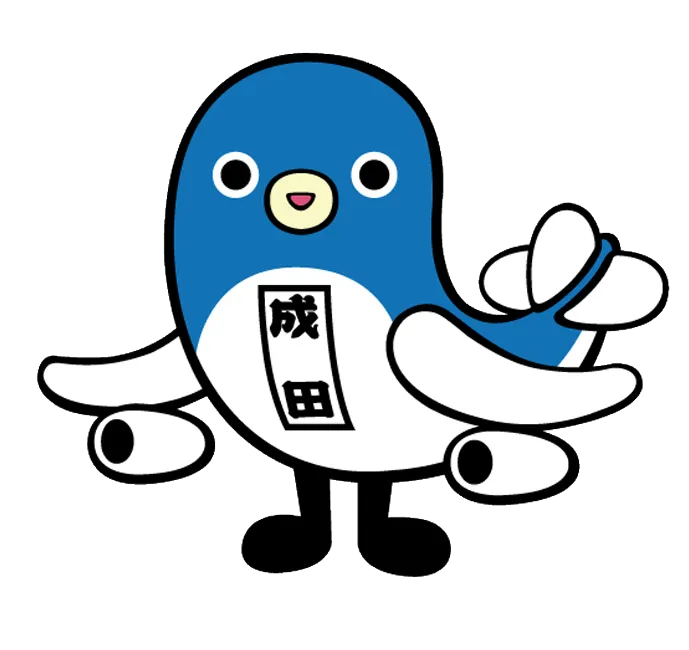
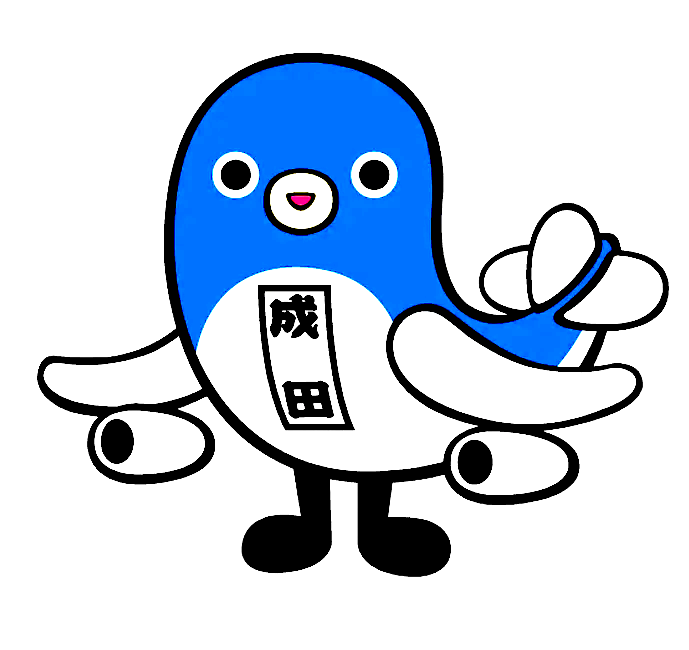
workng on lighting and material techniques. Using PhysicallyBasedMaterial and PointLigh. Stickers are better but still too dark.

diff --git a/Sticker/ARViewModel.swift b/Sticker/ARViewModel.swift
@@ -4,16 +4,18 @@ import ARKit
 import CoreLocation
 import CoreMotion
 
-class ARViewModel: NSObject, ObservableObject,CLLocationManagerDelegate {
+class ARViewModel: NSObject, ObservableObject,CLLocationManagerDelegate, ARSessionDelegate {
     @Published var arView: ARView = ARView(frame: .zero)
     let firebaseManager = FirebaseManager()
     let locationManager = CLLocationManager()
     let motionManager = CMMotionManager()
-    
+    let pointLight = Entity();
     @Published var currentLocation: CLLocation?
     @Published var heading: CLHeading?
     @Published var motionData: CMDeviceMotion?
     
+    private var cameraLight: PointLight?
+    private var cameraAnchor: AnchorEntity?
     
     private var placedStickers: [(UUID, Int)] = []
     private var anchorEntities: [AnchorEntity] = [] // Tracking array
@@ -37,6 +39,7 @@ class ARViewModel: NSObject, ObservableObject,CLLocationManagerDelegate {
         }
         setupLocationManager()
         setupMotionManager()
+        setupLighting()
     }
     func setupMotionManager() {
         if motionManager.isDeviceMotionAvailable {
@@ -64,17 +67,41 @@ class ARViewModel: NSObject, ObservableObject,CLLocationManagerDelegate {
     }
     //Delegate for updating location
     func locationManager(_ manager: CLLocationManager, didUpdateLocations locations: [CLLocation]) {
-           guard let location = locations.last else { return }
-           
-           // Filter out inaccurate locations
-           if location.horizontalAccuracy < 20 {
-               currentLocation = location
-           }
-       }
+        guard let location = locations.last else { return }
+        
+        // Filter out inaccurate locations
+        if location.horizontalAccuracy < 20 {
+            currentLocation = location
+        }
+    }
     //delegate for updating compass heading
     func locationManager(_ manager: CLLocationManager, didUpdateHeading newHeading: CLHeading) {
-           heading = newHeading
-       }
+        heading = newHeading
+    }
+    
+    
+    
+    private func setupLighting() {
+        // Create camera anchor
+        cameraAnchor = AnchorEntity(.camera)
+        
+        // Create and configure point light
+        cameraLight = PointLight()
+        cameraLight?.light.color = .white
+        cameraLight?.light.intensity = 5000  // Adjust intensity as needed
+        cameraLight?.light.attenuationRadius = 5.0  // Adjust radius as needed
+        
+        // Add light to camera anchor
+        if let light = cameraLight, let anchor = cameraAnchor {
+            anchor.addChild(light)
+            arView.scene.addAnchor(anchor)
+        }
+    }
+    
+    private func updateLightPosition() {
+        // The light will automatically follow the camera since it's parented to the camera anchor
+        // No manual position update needed
+    }
     
     // MARK: - Setup
     func setupARView() {
@@ -92,6 +119,11 @@ class ARViewModel: NSObject, ObservableObject,CLLocationManagerDelegate {
         let tapGesture = UITapGestureRecognizer(target: self, action: #selector(handleTap(_:)))
         arView.addGestureRecognizer(tapGesture)
         imageName = String(format: "image_%04d", selectedImageIndex)
+        
+        
+        
+        
+        
     }
     
     // MARK: - Tap
@@ -116,7 +148,7 @@ class ARViewModel: NSObject, ObservableObject,CLLocationManagerDelegate {
             
             let modelEntity = createModelEntity(img: imageName)
             anchorEntity.addChild(modelEntity)
-            
+            anchorEntity.addChild(pointLight)
             arView.scene.addAnchor(anchorEntity)
             
             anchorEntities.append(anchorEntity)
@@ -132,84 +164,143 @@ class ARViewModel: NSObject, ObservableObject,CLLocationManagerDelegate {
     private func createModelEntity(img: String) -> ModelEntity {
         print("Creating Model with: \(img)")
         
+        // Keep the same plane mesh generation
         let mesh = MeshResource.generatePlane(width: 0.2, depth: 0.2)
         
-        guard let texture = try? TextureResource.load(named: img) else {
-            print("Failed to load texture: \(img)")
+        // Create PhysicallyBasedMaterial instead of UnlitMaterial
+        var material = PhysicallyBasedMaterial()
+        
+        do {
+            // Load the texture
+            guard let texture = try? TextureResource.load(named: img) else {
+                print("Failed to load texture: \(img)")
+                return ModelEntity()
+            }
+            let roughnessValue = Float(0.9)
+            let blendingValue = Float(0.9)
+            let metallicValue = 0.0;
+            let opacityValue = Float(0.5);
+            let sheenValue = Float(0.5);
+            let normalValue = 0.5;
+            let environmentLightingWeightValue = Float(0.5);
+            let specularValue = 0.5;
+            let alphaValue = 0.5;
+            let normalMapValue = 0.5;
+            let occlusionValue = 0.5;
+            let occlusionMapValue = 0.5;
+            let normalScaleValue = 0.5;
+            let normalMapScaleValue = 0.5;
+            let normalMapScaleBiasValue = 0.5;
+            let occlusionMapScaleBiasValue = 0.5;
+            let normalMapScaleBiasBiasValue = 0.5;
+            let occlusionMapScaleBiasBiasValue = 0.5;
+            let occlusionMapScaleBiasBiasBiasValue = 0.5;
+            
+            // Configure the material
+            material.baseColor.texture = PhysicallyBasedMaterial.Texture(texture)
+
+            material.roughness = .init(floatLiteral: roughnessValue) // Slightly rough to better catch ambient light
+            material.blending = .transparent(opacity: .init(floatLiteral:blendingValue))
+            
+            //material.metallic = 0.5
+            //material.sheen = .init(tint: .white) //bleaches out the sticker
+            material.opacityThreshold = 0.5   // For alpha cutout
+            //material.clearcoatRoughness = 1.0
+            // Set sheen using proper color initialization
+            //let sheenColor = SimpleMaterial.Color(red: 1.0, green: 1.0, blue: 1.0, alpha: 1.0)
+            //material.sheen = .init(tint: sheenColor)
+            // material.sheen = .init(tint: .white)
+            //            material.emissiveColor = .init(color: .white)
+            //            material.emissiveIntensity = 0.1
+            
+            //material.baseColor. = 1.5  // Increase the brightness of the texture
+            
+            // Improve lighting response
+            //material.specular. = 0.3   // Add some specularity for better light response
+            //            material.clearcoat.value = 0.1  // Slight clearcoat for better light interaction
+            //            material.ambient.value = Color.white // Brighten ambient light response
+            
+            // Enable transparency
+            //material.blending = .transparent(opacity: .init(floatLiteral: 0.9))
+            
+            let modelEntity = ModelEntity(mesh: mesh, materials: [material])
+            
+            modelEntity.components.set(EnvironmentLightingConfigurationComponent(
+                environmentLightingWeight: environmentLightingWeightValue))
+            
+            
+            // Make the ModelEntity double-sided
+            if var model = modelEntity.model {
+                modelEntity.components.set(EnvironmentLightingConfigurationComponent(
+                    environmentLightingWeight: environmentLightingWeightValue))
+                model.materials = model.materials.map { material in
+                    var newMaterial = material as! PhysicallyBasedMaterial
+                    newMaterial.roughness = .init(floatLiteral: roughnessValue)
+                    newMaterial.blending = .transparent(opacity: .init(floatLiteral: blendingValue))
+                    //newMaterial.sheen = .init(tint: .white)
+                    
+                    return newMaterial
+                }
+                modelEntity.model = model
+            }
+            
+            
+            return modelEntity
+            
+        } catch {
+            print("Error creating model entity: \(error)")
             return ModelEntity()
         }
-        
-        var material = UnlitMaterial()
-        
-        //cannot use color attribute with a texture so using deprecated baseColor which displays the bitmap with transparency
-        material.baseColor = MaterialColorParameter.texture(texture)
-        
-        // Enable transparency
-        material.blending = .transparent(opacity: .init(floatLiteral: 1.0))
-        
-        let modelEntity = ModelEntity(mesh: mesh, materials: [material])
-        
-        // Make the ModelEntity double-sided
-        if var model = modelEntity.model {
-            model.materials = model.materials.map { material in
-                var newMaterial = material as! UnlitMaterial
-                newMaterial.blending = .transparent(opacity: .init(floatLiteral: 1.0))
-                return newMaterial
-            }
-            modelEntity.model = model
-        }
-        
-        return modelEntity
     }
     
     
     func saveCurrentAnchor(anchorEntity: AnchorEntity, location: CLLocation) {
-            let transformMatrix = anchorEntity.transform.matrix
-            let transformArray: [Double] = [
-                Double(transformMatrix.columns.0.x), Double(transformMatrix.columns.0.y), Double(transformMatrix.columns.0.z), Double(transformMatrix.columns.0.w),
-                Double(transformMatrix.columns.1.x), Double(transformMatrix.columns.1.y), Double(transformMatrix.columns.1.z), Double(transformMatrix.columns.1.w),
-                Double(transformMatrix.columns.2.x), Double(transformMatrix.columns.2.y), Double(transformMatrix.columns.2.z), Double(transformMatrix.columns.2.w),
-                Double(transformMatrix.columns.3.x), Double(transformMatrix.columns.3.y), Double(transformMatrix.columns.3.z), Double(transformMatrix.columns.3.w)
-            ]
-            
-            var anchorData: [String: Any] = [
-                "id": anchorEntity.id.description,
-                "transform": transformArray,
-                "name": imageName,
-                "latitude": location.coordinate.latitude,
-                "longitude": location.coordinate.longitude,
-                "altitude": location.altitude,
-                "horizontalAccuracy": location.horizontalAccuracy,
-                "verticalAccuracy": location.verticalAccuracy,
-                "timestamp": location.timestamp.timeIntervalSince1970
-            ]
-            
-            if let heading = heading {
-                anchorData["heading"] = heading.trueHeading
-                anchorData["headingAccuracy"] = heading.headingAccuracy
-            }
-            
-            if let motion = motionData {
-                anchorData["attitude"] = [
-                    "roll": motion.attitude.roll,
-                    "pitch": motion.attitude.pitch,
-                    "yaw": motion.attitude.yaw
-                ]
-                anchorData["gravity"] = [
-                    "x": motion.gravity.x,
-                    "y": motion.gravity.y,
-                    "z": motion.gravity.z
-                ]
-                anchorData["magneticField"] = [
-                    "x": motion.magneticField.field.x,
-                    "y": motion.magneticField.field.y,
-                    "z": motion.magneticField.field.z,
-                    "accuracy": motion.magneticField.accuracy.rawValue
-                ]
-            }
-            
-            firebaseManager.saveAnchor(anchorData: anchorData)
+        let transformMatrix = anchorEntity.transform.matrix
+        let transformArray: [Double] = [
+            Double(transformMatrix.columns.0.x), Double(transformMatrix.columns.0.y), Double(transformMatrix.columns.0.z), Double(transformMatrix.columns.0.w),
+            Double(transformMatrix.columns.1.x), Double(transformMatrix.columns.1.y), Double(transformMatrix.columns.1.z), Double(transformMatrix.columns.1.w),
+            Double(transformMatrix.columns.2.x), Double(transformMatrix.columns.2.y), Double(transformMatrix.columns.2.z), Double(transformMatrix.columns.2.w),
+            Double(transformMatrix.columns.3.x), Double(transformMatrix.columns.3.y), Double(transformMatrix.columns.3.z), Double(transformMatrix.columns.3.w)
+        ]
+        
+        var anchorData: [String: Any] = [
+            "id": anchorEntity.id.description,
+            "transform": transformArray,
+            "name": imageName,
+            "latitude": location.coordinate.latitude,
+            "longitude": location.coordinate.longitude,
+            "altitude": location.altitude,
+            "horizontalAccuracy": location.horizontalAccuracy,
+            "verticalAccuracy": location.verticalAccuracy,
+            "timestamp": location.timestamp.timeIntervalSince1970
+        ]
+        
+        if let heading = heading {
+            anchorData["heading"] = heading.trueHeading
+            anchorData["headingAccuracy"] = heading.headingAccuracy
         }
+        
+        if let motion = motionData {
+            anchorData["attitude"] = [
+                "roll": motion.attitude.roll,
+                "pitch": motion.attitude.pitch,
+                "yaw": motion.attitude.yaw
+            ]
+            anchorData["gravity"] = [
+                "x": motion.gravity.x,
+                "y": motion.gravity.y,
+                "z": motion.gravity.z
+            ]
+            anchorData["magneticField"] = [
+                "x": motion.magneticField.field.x,
+                "y": motion.magneticField.field.y,
+                "z": motion.magneticField.field.z,
+                "accuracy": motion.magneticField.accuracy.rawValue
+            ]
+        }
+        
+        firebaseManager.saveAnchor(anchorData: anchorData)
+    }
     
     func loadSavedAnchors() {
         firebaseManager.loadAnchors { [weak self] result in
